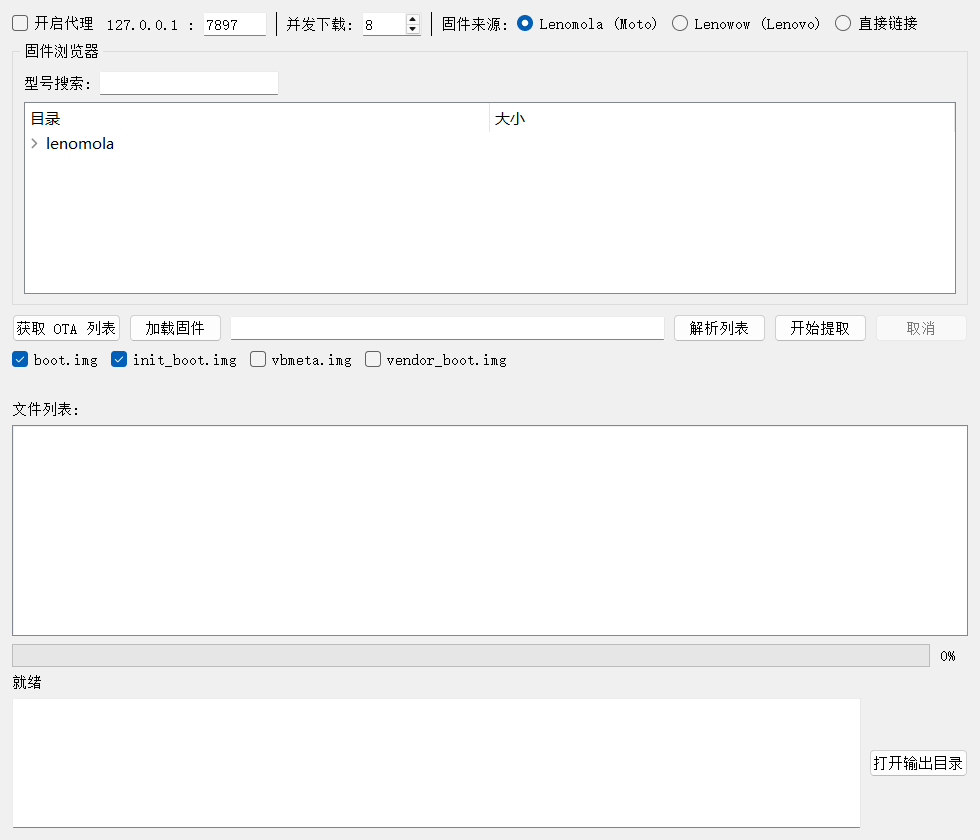
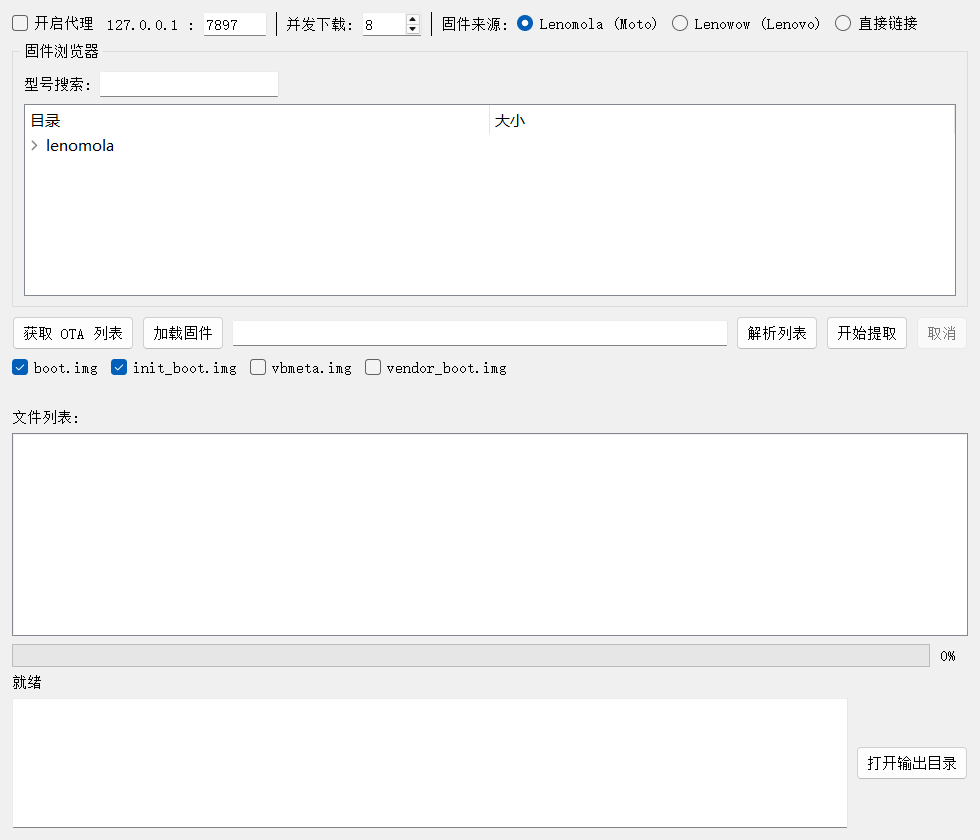
style: 修正按钮文字截断，统一样式表与最小尺寸
- 全局样式表: QPushButton 最小高 26px + padding，QLineEdit/QSpinBox/QComboBox 最小高 22px
- 打开输出目录按钮最小宽 110px，解决中文标签被挤压截断
- --screenshot 模式改为 window.close()，走 closeEvent 正常收尾，消除
  'QThread: Destroyed while thread is still running' 警告
- docs/screenshot.png 由最终打包 exe 重新生成

diff --git a/qt_extractor.py b/qt_extractor.py
@@ -1423,6 +1423,7 @@ def main():
             bottom.addWidget(self.log_edit)
             self.btn_open = QPushButton("打开输出目录")
             self.btn_open.setMinimumHeight(28)
+            self.btn_open.setMinimumWidth(110)
             self.btn_open.clicked.connect(self.open_output_dir)
             bottom.addWidget(self.btn_open)
             root.addLayout(bottom)
@@ -1783,6 +1784,10 @@ def main():
             event.accept()
 
     application = QApplication(sys.argv)
+    application.setStyleSheet(
+        "QPushButton { min-height: 26px; padding: 3px 10px; }"
+        "QLineEdit, QSpinBox, QComboBox { min-height: 22px; }"
+        "QTreeWidget, QListWidget { alternate-background-color: palette(base); }")
     window = MainWindow()
     window.show()
 
@@ -1795,7 +1800,7 @@ def main():
             try:
                 window.grab().save(shot_path)
             finally:
-                application.quit()
+                window.close()          # 走 closeEvent，等后台线程收尾后再退出
 
         QTimer.singleShot(2500, grab_and_quit)
 
@@ -1814,3 +1819,5 @@ if __name__ == "__main__":
         except Exception:
             pass
         raise
+
+
